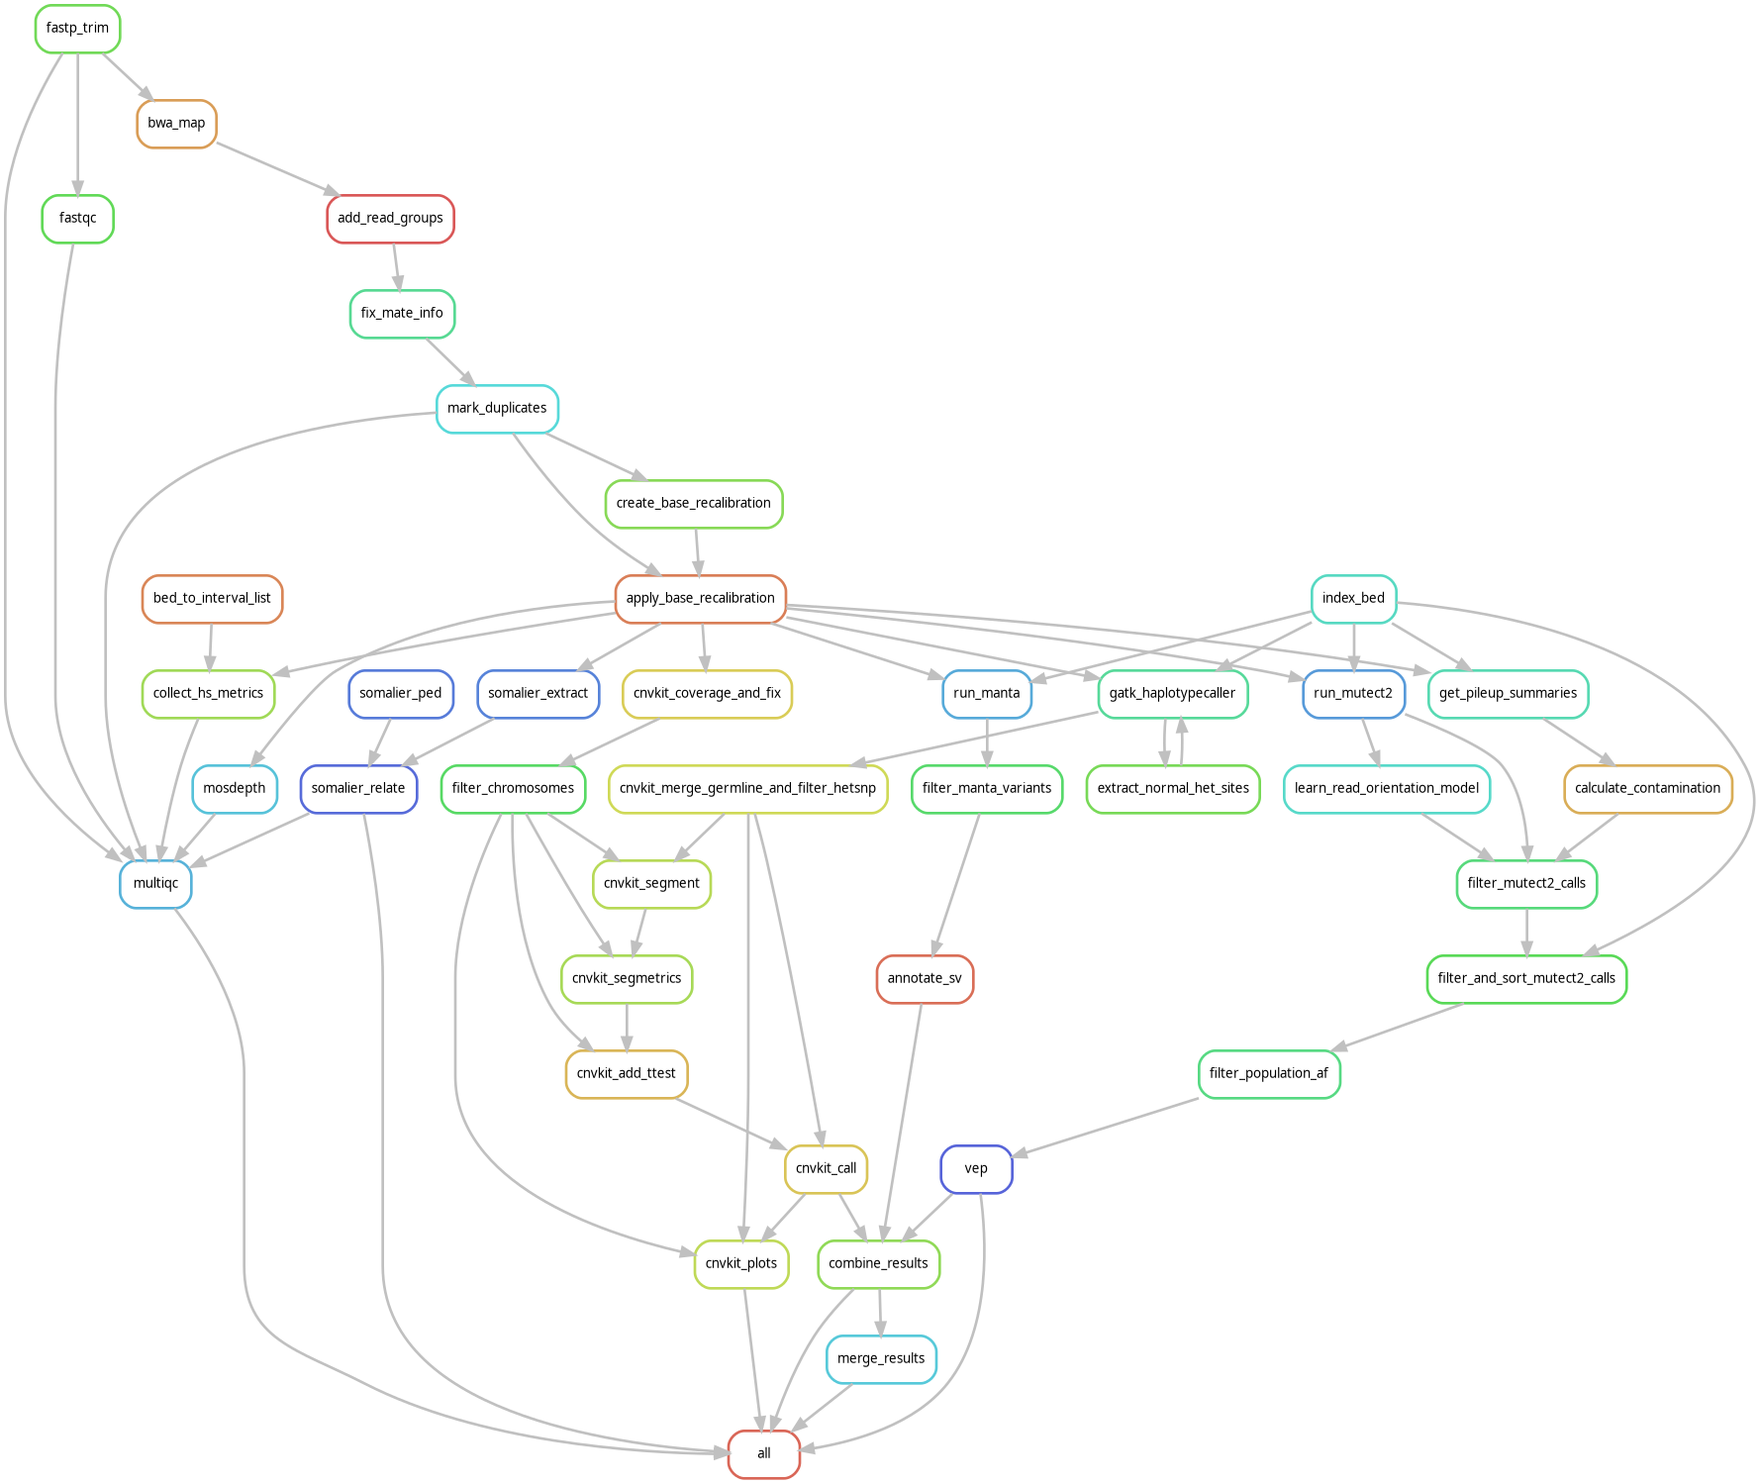
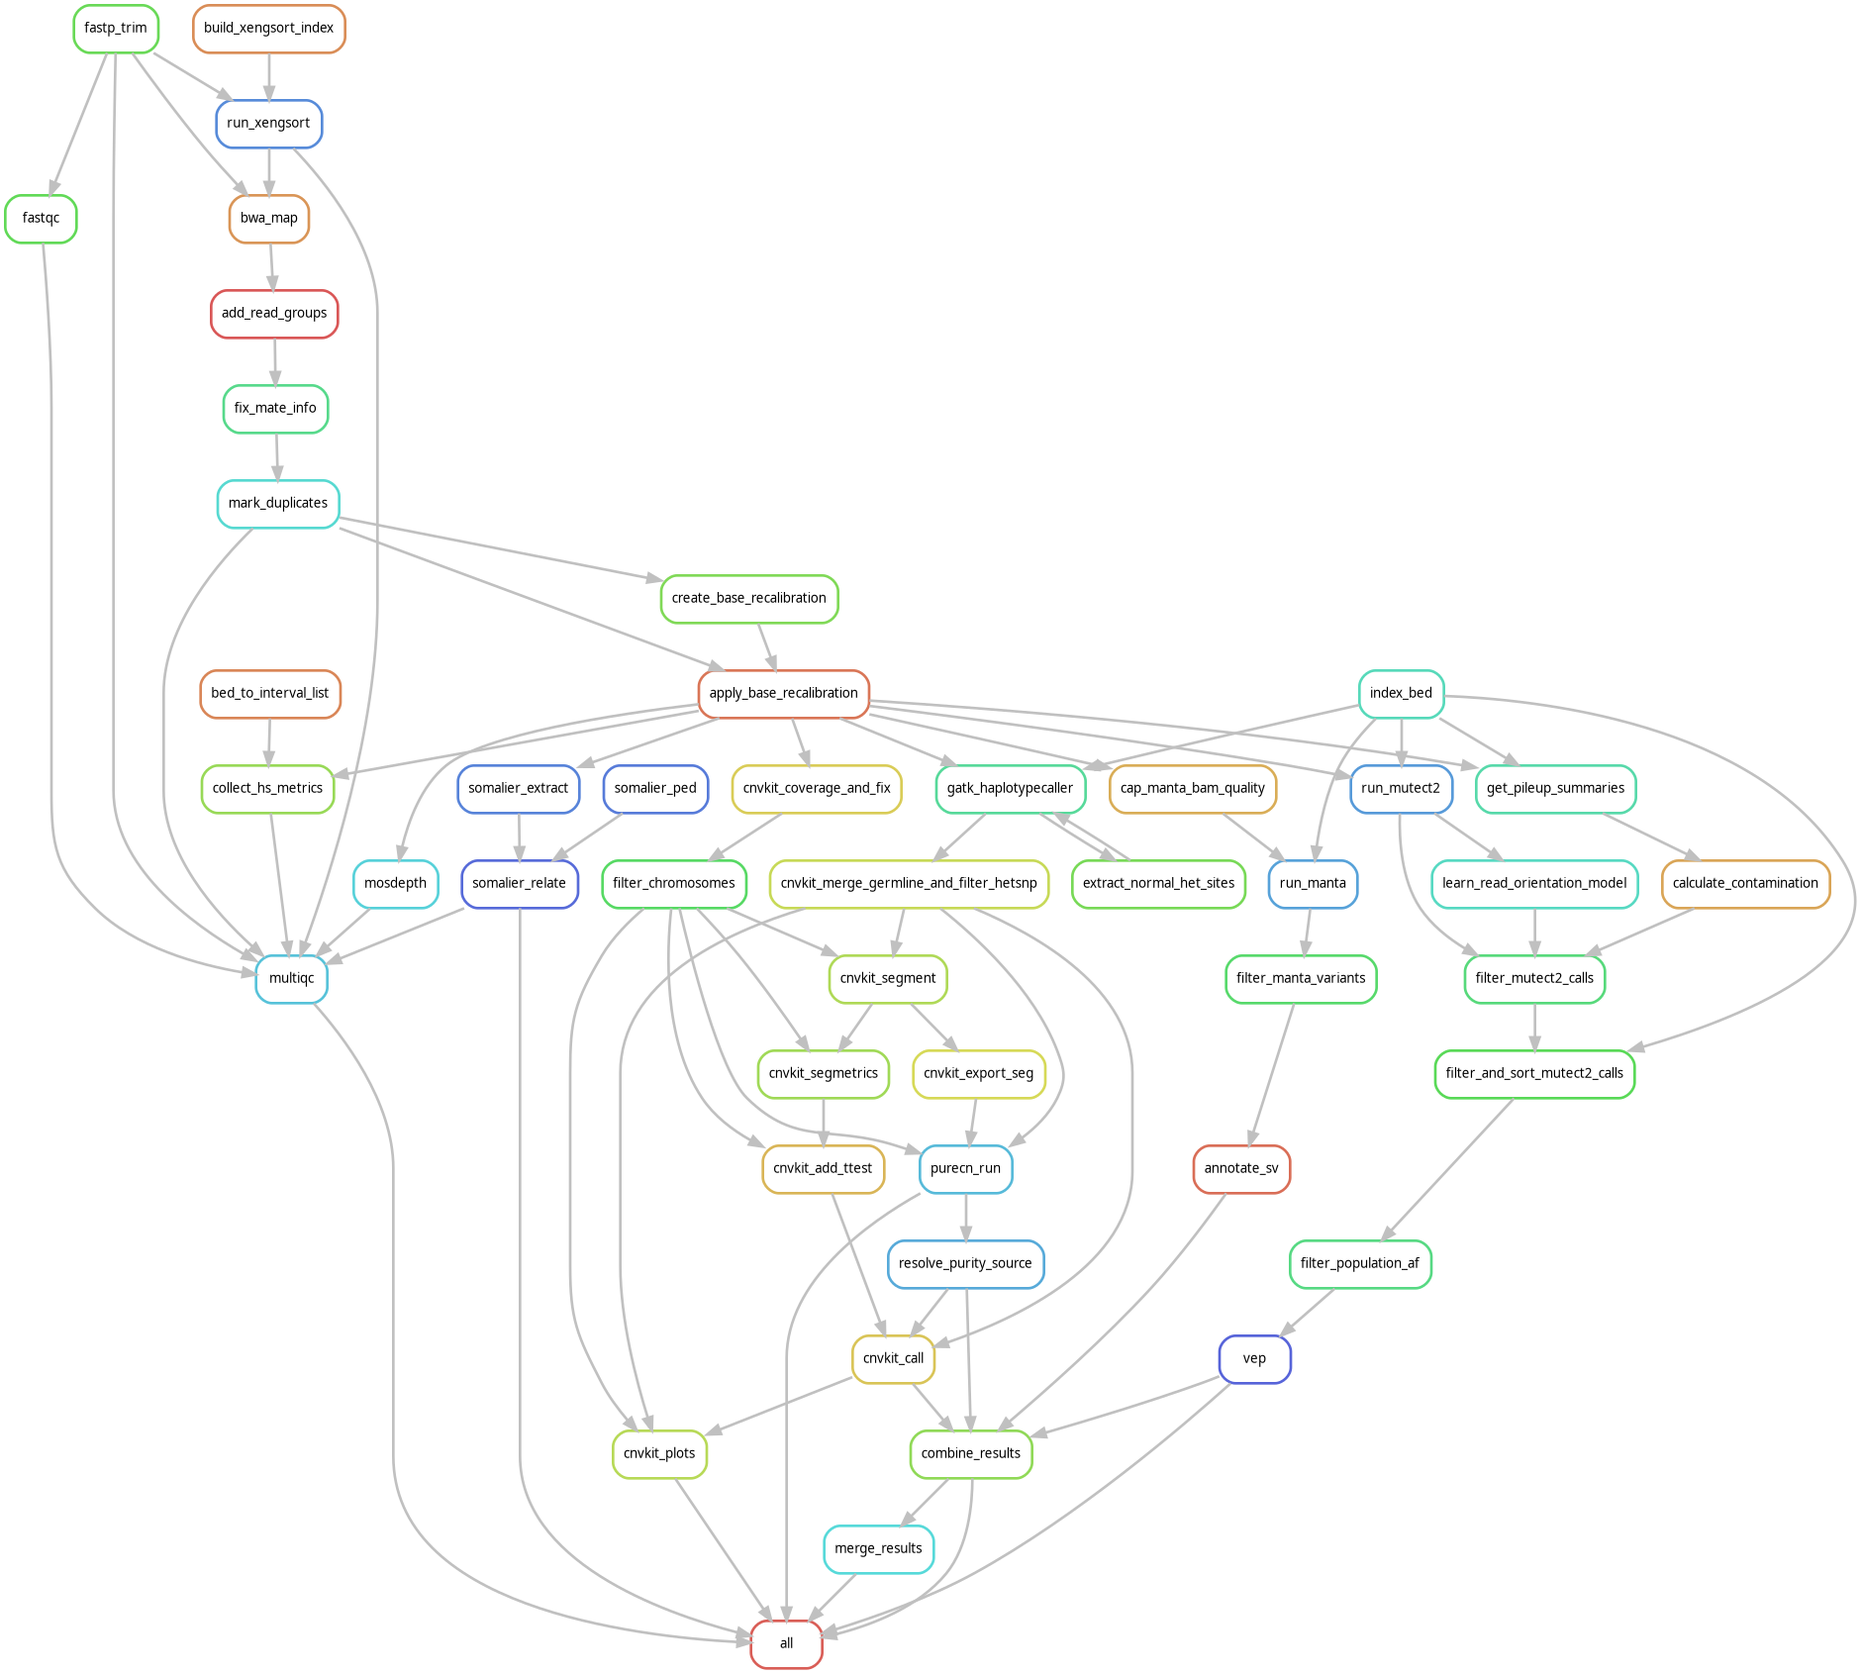
Repoint PureCN NormalDB at production PON; rename Chr_sex to gender
get_purecn_normaldb/get_purecn_mapping_bias in common.py now resolve a sex-specific NormalDB per sample instead of one shared file per kit — CNVkit's own reference_m.cnn/reference_f.cnn trim different bins around chrX/chrY, so a single pooled NormalDB fails PureCN's identical() interval check against a real tumor .cnr. config.yaml's panel_of_normals.purecn gains the matching _m/_f split and now points at the production WES-PON-smk build rather than the dev-clone test one. This also surfaced a latent bug: common.py is imported as a plain module (not include:d), so it only sees dataframes the Snakefile explicitly pushes onto it (fastq_dict, runs_dict, etc.) — samples was never pushed, so the new sex-aware lookups raised NameError the moment they ran; fixed by adding it alongside the others. verify_purecn_pon.sh (written against the scratch test PON) is removed now that the production layout is wired in directly.

Separately, rename the samplesheet's sex column from Chr_sex (XX/XY) to gender (f/m) — clearer data provenance than encoding karyotype for a value that's only ever used as sex. Updates the Snakefile validation and every consumer (CNVkit reference/male-flag selection, PureCN sex flag, somalier PED encoding) plus README/TODO docs. config.yaml now points at samplesheet_test.csv, a multi-kit/multi-sex test sheet (including a tumor-only run and a mixed V6-normal/V8-tumor run) to validate both changes together.

diff --git a/workflow/scripts/common.py b/workflow/scripts/common.py
@@ -42,14 +42,21 @@ def is_purecn_eligible(wildcards):
     return is_paired_run(wildcards.run)
 
 
+def _get_gender(run, sample):
+    sample_row = samples[(samples["ID"] == run) & (samples["sample"] == sample)]
+    return sample_row["gender"].iloc[0]
+
+
 def get_purecn_normaldb(wildcards):
     probe_version = probe_dict[wildcards.run][wildcards.sample]
-    return config["panel_of_normals"]["purecn"]["normaldb"][probe_version]
+    sex_key = "normaldb_m" if _get_gender(wildcards.run, wildcards.sample) == "m" else "normaldb_f"
+    return config["panel_of_normals"]["purecn"][sex_key][probe_version]
 
 
 def get_purecn_mapping_bias(wildcards):
     probe_version = probe_dict[wildcards.run][wildcards.sample]
-    return config["panel_of_normals"]["purecn"]["mapping_bias"][probe_version]
+    sex_key = "mapping_bias_m" if _get_gender(wildcards.run, wildcards.sample) == "m" else "mapping_bias_f"
+    return config["panel_of_normals"]["purecn"][sex_key][probe_version]
 
 
 def get_purity_ploidy_args(wildcards, input):

diff --git a/TODO.md b/TODO.md
@@ -6,8 +6,6 @@
 
 ## Good-to-haves (open, enhancements / non-blocking)
 
-8. **xengsort mouse-read stats not captured** — fraction of murine reads is critical QC for PDX samples and is currently lost.
-
 13. **No orthogonal purity/ploidy estimator (FACETS)** — PureCN is now wired in and is the only estimator (see #25 in Done); purity defaults to the samplesheet constant until `params.cnv.purity_source` is flipped to `"purecn"` in config, and even then falls back to the samplesheet value for any sample PureCN flags as low-confidence. There is still no second, independent estimate to catch a case where PureCN is *not* flagged but simply wrong. Add **FACETS** (WES tumor/normal, allele-specific CN + purity/ploidy from depth-ratio + BAF) as a second, orthogonal estimator so purity can be reported as a "two methods agree" number rather than a single tool's opinion. Cheap interim cross-check available with no new tool: `2 × modal VAF of clonal PASS SNVs in CN-neutral CNVkit segments ≈ purity` (Mutect2 VCF + CNVkit `.cns`, both already produced) — worth running before investing in FACETS, since the published PureCN/FACETS/ABSOLUTE benchmark (Oh et al., bioRxiv 552711) found discordance concentrated in low-purity, low-coverage samples that FACETS would likely find equally ambiguous rather than resolve.
 
 19. **No MAF-format SNV output for maftools / cohort-level analysis** — current SNV outputs are per-sample VEP-annotated VCF (`{sample}.SNV.vcf`) and the merged Excel/TSV output. Both are fine for per-sample inspection but unusable as input to `maftools` (oncoplots, mutational signatures, TMB summaries, somatic interactions, lollipop plots, etc.), which is the standard downstream entry point for cohort SNV analysis.
@@ -129,13 +127,15 @@
 
     **Partial workaround applied in `pdxpdcl_dlbcl` branch:** `cnvkit.py target --annotate refFlat.txt` was run manually on both kits, producing `targets_annotated.bed` alongside the originals. `config.yaml` on that branch points to the annotated files. A post-hoc ENST→symbol remapping was also applied in `combine_cnvs.R` (recovers PRDM1, SOCS1; cannot recover CDKN2A/STAT6 which were mislabeled at the BED level). See `docs/cnvkit_gene_annotation_issue.md` in the `pdxpdcl_dlbcl` branch for full details.
 
-20. ~~**Add somalier — genotype-based sample-swap and sex QC**~~ ✅ — fixed: new `somalier_extract` (per-sample, off the final recalibrated BAM) / `somalier_ped` (per-run PED encoding samplesheet `Chr_sex`) / `somalier_relate` (per-run gather) chain in `workflow/rules/somalier.smk`, wired into `rule all` and into `multiqc`'s inputs so MultiQC's native somalier module picks up the report. Runs via conda (`somalier=0.3.2`), not a container — the `brentp/somalier:v0.3.2`/`v0.3.2-1` Docker images both ship a broken `/bin/bash` (readline symbol relocation failure), so bioconda was used instead, matching how this repo already handles other small CLI tools (bcftools, mosdepth, fastqc). Report-only, no DAG gating: mismatches surface in the HTML/MultiQC report for human review. Verified end-to-end on `P005` (CTRL/PT pair): both samples' inferred sex matches `Chr_sex` (XY → male), and CTRL/PT relatedness is 0.997 with 1.000 concordance, confirming correct tumor/normal pairing.
+20. ~~**Add somalier — genotype-based sample-swap and sex QC**~~ ✅ — fixed: new `somalier_extract` (per-sample, off the final recalibrated BAM) / `somalier_ped` (per-run PED encoding samplesheet `gender`) / `somalier_relate` (per-run gather) chain in `workflow/rules/somalier.smk`, wired into `rule all` and into `multiqc`'s inputs so MultiQC's native somalier module picks up the report. Runs via conda (`somalier=0.3.2`), not a container — the `brentp/somalier:v0.3.2`/`v0.3.2-1` Docker images both ship a broken `/bin/bash` (readline symbol relocation failure), so bioconda was used instead, matching how this repo already handles other small CLI tools (bcftools, mosdepth, fastqc). Report-only, no DAG gating: mismatches surface in the HTML/MultiQC report for human review. Verified end-to-end on `P005` (CTRL/PT pair): both samples' inferred sex matches samplesheet `gender` (m → male), and CTRL/PT relatedness is 0.997 with 1.000 concordance, confirming correct tumor/normal pairing. (Samplesheet later migrated from `Chr_sex: XX/XY` to `gender: f/m`; this entry updated to match.)
 
 22. ~~**Manta correctness fixes**~~ ✅ — fixed in `sv_calling_manta.smk`: new `cap_manta_bam_quality` rule caps base qualities at 70 (pysam, new `envs/pysam.yaml`) on a Manta-only copy of each sample's recalibrated BAM (`work/manta/{run}/{sample}/{sample}.bqcap.bam`) — the BAM used by every other rule is untouched. `run_manta` now points `--tumorBam`/`--normalBam` at the capped BAMs, and its shell block pipes the raw `tumorSV`/`somaticSV` VCF through the bundled `convertInversion.py` (added `samtools=1.18` to `envs/manta.yaml`, which also supplies `bgzip`/`tabix` — `1.21`+ was tried and doesn't solve alongside `python=2.7`'s legacy zlib/ncurses pins, so `1.18` is the practical ceiling here) before re-compressing/indexing to the rule's declared output — folding paired-BND inversion records into proper `INV` calls ahead of `filter_manta_variants`/`annotate_sv`. Not yet re-verified end-to-end on a known-translocation case; do that before trusting new INV calls in a report.
 
 23. ~~**Migrate SNV annotation from Funcotator to VEP**~~ ✅ — fixed: `funcotator` rule replaced by a `vep` rule (`snv_calling_mutect2.smk:241`, `docker://ensemblorg/ensembl-vep:release_116.0`), and `combine_results.R` rewired to parse the VEP CSQ field instead of Funcotator's FUNCOTATION field. Landed in the same commit that should have, but did not, update this file — caught retroactively while auditing commits against TODO.md. Leaves #19 (MAF output) stale, since it assumed Funcotator's native MAF emitter — see the note under #19.
 
-25. ~~**PureCN is not wired into the DAG**~~ ✅ — fixed: `purecn.smk` is now `include`d in `Snakefile`, gated to paired tumor/normal runs (PDX included, tumor-only excluded — no matched-normal het-SNP track to estimate BAF from). `purecn_run` now passes `--normaldb`/`--mapping-bias-file` (from the new per-kit PureCN NormalDB built in `WES-PON-smk`, see `purecn_normaldb_wes_pon_smk.md`) and `--snp-blacklist` (UCSC simple repeats, hg38), none of which were wired before. The original draft's `cnvkit_call_with_purity`/`cnvkit_plots_calibrated` rules — a parallel, never-actually-consumed `.purecn_calibrated.cns` output — are deleted; instead a new `resolve_purity_source` rule is the single decision point for purity/ploidy (PureCN when `params.cnv.purity_source: "purecn"` in config and not `Flagged`, else the samplesheet constant), and both `cnvkit_call` and `combine_results.R` read that same sidecar CSV so they can no longer independently disagree on which purity value was used (previously `get_purity()` was called separately in both places — harmless only because both happened to read the same samplesheet scalar). Default config value is `"samplesheet"` — zero behavior change until explicitly flipped. PureCN itself always runs for eligible samples regardless of the toggle, and its raw Purity/Ploidy/Flagged status is now surfaced in a new `Sample_QC` sheet in each sample's results xlsx and in a new cohort-wide `results/combined/combined_qc.tsv`, enabling the "PureCN vs samplesheet" comparison the toggle exists for. A genuine `PureCN.R` crash (bad path, env issue) hard-fails the DAG like every other rule — it does not silently fall back to samplesheet purity; only a *successful* run that reports `Flagged=TRUE` does. **Not yet run end-to-end** — PureCN's exact output CSV column names (`Purity`/`Ploidy`/`Flagged`, assumed from the vignette) haven't been confirmed against a real `bioconductor-purecn=2.12.0` run in this repo; do that (and the rest of the verification plan — diff `.call.cns`/xlsx against the pre-change baseline with the toggle off, then on) before trusting results. The `panel_of_normals.purecn.*` config paths currently point at a `/mnt/scratch/...` validation PON, not the production one — re-point once `WES-PON-smk`'s full build lands (see `verify_purecn_pon.sh`).
+25. ~~**PureCN is not wired into the DAG**~~ ✅ — fixed: `purecn.smk` is now `include`d in `Snakefile`, gated to paired tumor/normal runs (PDX included, tumor-only excluded — no matched-normal het-SNP track to estimate BAF from). `purecn_run` now passes `--normaldb`/`--mapping-bias-file` (from the new per-kit PureCN NormalDB built in `WES-PON-smk`, see `purecn_normaldb_wes_pon_smk.md`) and `--snp-blacklist` (UCSC simple repeats, hg38), none of which were wired before. The original draft's `cnvkit_call_with_purity`/`cnvkit_plots_calibrated` rules — a parallel, never-actually-consumed `.purecn_calibrated.cns` output — are deleted; instead a new `resolve_purity_source` rule is the single decision point for purity/ploidy (PureCN when `params.cnv.purity_source: "purecn"` in config and not `Flagged`, else the samplesheet constant), and both `cnvkit_call` and `combine_results.R` read that same sidecar CSV so they can no longer independently disagree on which purity value was used (previously `get_purity()` was called separately in both places — harmless only because both happened to read the same samplesheet scalar). Default config value is `"samplesheet"` — zero behavior change until explicitly flipped. PureCN itself always runs for eligible samples regardless of the toggle, and its raw Purity/Ploidy/Flagged status is now surfaced in a new `Sample_QC` sheet in each sample's results xlsx and in a new cohort-wide `results/combined/combined_qc.tsv`, enabling the "PureCN vs samplesheet" comparison the toggle exists for. A genuine `PureCN.R` crash (bad path, env issue) hard-fails the DAG like every other rule — it does not silently fall back to samplesheet purity; only a *successful* run that reports `Flagged=TRUE` does. Run end-to-end on `P005` (CTRL/PT/PDX) against the production, sex-split NormalDB (`panel_of_normals.purecn.{normaldb,mapping_bias}_{m,f}`, built by `WES-PON-smk`): `purecn_run` completes, and the output CSV's column names (`Purity`/`Ploidy`/`Flagged`) match what `resolve_purity_source` assumed from the vignette — no parsing hard-fail. With the toggle still on `"samplesheet"`, `.call.cns`/xlsx outputs are byte-identical to the pre-#25 baseline, confirming the sidecar plumbing doesn't alter behavior until explicitly flipped. Both `P005_PT` and `P005_PDX_VFND2` came back `Flagged=TRUE` ("NON-ABERRANT; LOW PURITY; POOR GOF") — PureCN's own log shows it correctly detecting a near-flat copy-number profile rather than misbehaving, and `resolve_purity_source` correctly fell back to samplesheet purity for both. `params.cnv.purity_source` remains `"samplesheet"`; flipping it is still a deliberate future step once a CN-aberrant sample is available to validate against.
+
+8. ~~**xengsort mouse-read stats not captured**~~ ✅ — fixed: MultiQC's xengsort module named each PDX sample's row after the literal `--out` path printed in the classify log, not the log filename, so it never merged with that sample's other QC rows. `run_xengsort` now rewrites the log in place (`sed -i "s#{params.outprefix}#{wildcards.sample}#g"`) after classification, and `multiqc` takes each sample's graft fastq as an explicit input so `run_xengsort` is DAG-guaranteed to finish (and the temp() graft fastqs survive) before the report is built. Murine/graft read fractions now appear merged into the per-sample MultiQC row instead of being lost.
 
 12. ~~**PureCN receives pre-segmented `.cns` + `--fun-segmentation Hclust`**~~ ✅ — investigated, **not a bug; the original claim was wrong**. Checked against PureCN's own CNVkit integration docs (Quick-Start guide) and the maintainer's GitHub issue thread: feeding a `--seg-file` (exported from CNVkit's `.cns`) alongside the raw `.cnr` and using `--fun-segmentation Hclust` *is* PureCN's documented recommended recipe for CNVkit users — `Hclust` re-segments using germline BAFs on top of CNVkit's boundaries by design, a deliberate middle ground, not a contradiction. `cnvkit_export_seg` and the `--seg-file`/`Hclust` flags in `purecn_run` are unchanged by #25's rewire.
 

diff --git a/README.md b/README.md
@@ -72,7 +72,7 @@ Create comma-separated table `samplesheet.csv` with columns:
 * **ID**: Sample group identifier (usually a patient ID). Samples sharing an ID are processed together.
 * **sample**: Sample identifier, unique within the given ID.
 * **sample_type**: Sample type — `CTRL` for matched normal/germline, `PDX` for xenograft, any other value is treated as a tumor sample.
-* **Chr_sex**: Chromosomal sex — `XX` for female, `XY` for male.
+* **gender**: `f` for female, `m` for male.
 * **probes**: Exome library kit version. Must match a key in `probe_configs` in `config.yaml`.
 * **purity**: Known or estimated tumor cell fraction (0–1). Used for CNVkit copy number calling and CCF calculation.
 * **fq1**: Full path to R1 FASTQ file.
@@ -80,12 +80,12 @@ Create comma-separated table `samplesheet.csv` with columns:
 
 Example format:
 
-| ID   | sample   | sample_type | Chr_sex | probes | purity | fq1 | fq2 |
-|------|----------|-------------|---------|--------|--------|-----|-----|
-| Pt01 | Normal01 | CTRL        | XY      | V8+UTR | 0      | /path/to/Normal01_R1.fastq.gz | /path/to/Normal01_R2.fastq.gz |
-| Pt01 | Tumor01  | Tumor       | XY      | V8+UTR | 0.7    | /path/to/Tumor01_R1.fastq.gz  | /path/to/Tumor01_R2.fastq.gz  |
-| Pt01 | Tumor02  | Tumor       | XY      | V8+UTR | 0.3    | /path/to/Tumor02_R1.fastq.gz  | /path/to/Tumor02_R2.fastq.gz  |
-| Pt01 | Model01  | PDX         | XY      | V8+UTR | 1      | /path/to/Model01_R1.fastq.gz  | /path/to/Model01_R2.fastq.gz  |
+| ID   | sample   | sample_type | gender | probes | purity | fq1 | fq2 |
+|------|----------|-------------|--------|--------|--------|-----|-----|
+| Pt01 | Normal01 | CTRL        | m      | V8+UTR | 0      | /path/to/Normal01_R1.fastq.gz | /path/to/Normal01_R2.fastq.gz |
+| Pt01 | Tumor01  | Tumor       | m      | V8+UTR | 0.7    | /path/to/Tumor01_R1.fastq.gz  | /path/to/Tumor01_R2.fastq.gz  |
+| Pt01 | Tumor02  | Tumor       | m      | V8+UTR | 0.3    | /path/to/Tumor02_R1.fastq.gz  | /path/to/Tumor02_R2.fastq.gz  |
+| Pt01 | Model01  | PDX         | m      | V8+UTR | 1      | /path/to/Model01_R1.fastq.gz  | /path/to/Model01_R2.fastq.gz  |
 
 #### Tumor–Normal Paired Mode
 
